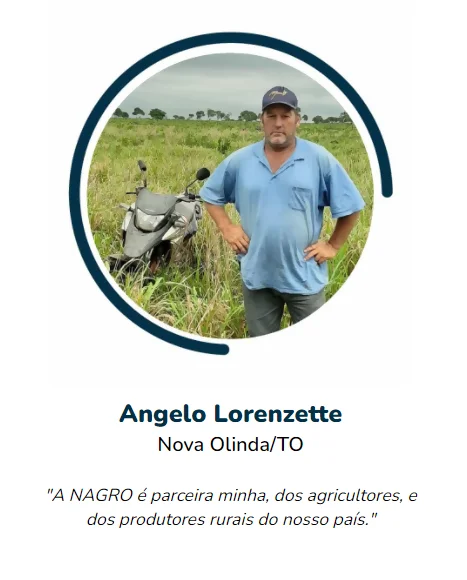
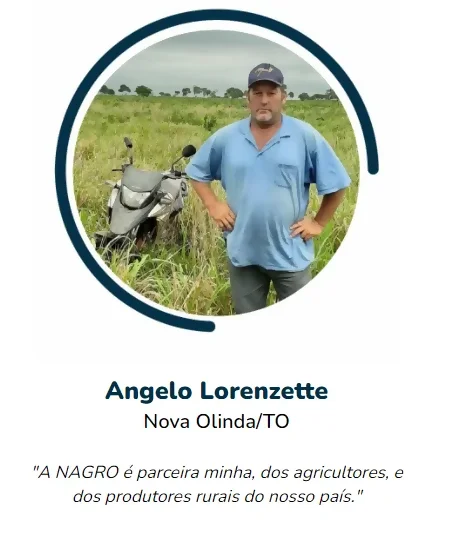
up

Changed region(s): [[0.0927, 0.0, 0.8653, 0.6104], [0.0618, 0.8241, 0.8962, 0.9156], [0.2163, 0.6715, 0.7417, 0.7935]]

diff --git a/css/main.css b/css/main.css
@@ -11,8 +11,8 @@
   display: block;
 }
 
-section{
-  padding: 40px 50px;
+section {
+  padding: 80px 50px;
 }
 
 #produtor {
@@ -86,7 +86,7 @@ section{
   font-family: "Ubuntu", sans-serif;
   color: white;
 }
-.img48 {
+.iconone {
   display: block;
   width: 100px;
 }
@@ -113,7 +113,7 @@ section{
   text-align: center;
   font-family: "Lato", sans-serif;
   font-size: 32px;
-  margin-top: 40px;
+  margin: 20px 0;
   line-height: 1;
 }
 
@@ -164,10 +164,10 @@ section{
   font-weight: 700;
 }
 
-.text-white{
+.text-white {
   display: block;
   text-align: center;
-  font-family: "Nunito",sans-serif!important;
+  font-family: "Nunito", sans-serif !important;
   color: white;
   line-height: 1;
   font-weight: 600;
@@ -175,12 +175,95 @@ section{
   margin-top: 50px;
 }
 
-#sec4 h2{
+#sec4 h2 {
   text-align: center;
-  font-family: "Ubuntu",sans-serif;
-  color: #0065c3!important;
+  font-family: "Ubuntu", sans-serif;
+  color: #0065c3 !important;
   font-size: 28px;
   font-weight: 700;
+  margin-bottom: 50px;
+}
+
+.icones {
+  display: flex;
+  justify-content: space-around;
+  align-items: stretch;
+  margin-bottom: 60px;
+}
+
+.card {
+  display: flex;
+  align-items: center;
+  justify-content: center;
+  height: 111px;
+}
+
+.card img {
+  max-height: 100%;
+}
+
+.card span {
+  display: block;
+  padding-top: 10px;
+  font-family: "Ubuntu";
+}
+
+#sec5 {
+  background-color: #ededed;
+  display: flex;
+}
+
+#sec5 div {
+  width: 50%;
+  padding: 45px;
+}
+
+#sec5 div img {
+  width: 50%;
+  margin: auto auto;
+  display: block;
+}
+
+#sec5 div h2 {
+  font-family: arial;
+  color: #023047 !important;
+  font-size: 32px;
+  font-weight: 700;
+  text-align: left;
+  width: 550px;
+  padding-top: 5px;
+}
+
+#sec5 div p {
+  font-family: "Ubuntu", sans-serif;
+  color: #4a4a4a !important;
+  font-size: 16px;
+  font-weight: 700;
+  width: 440px;
+  margin-top: 40px;
+}
+
+#timeline {
+  display: block;
+  width: 400px;
+  height: 50%;
+  margin: 35px 0 !important;
+}
+
+.btn2 {
+  color: #fff !important;
+  font-size: 15px !important;
+  font-family: "Nunito" !important;
+  font-weight: 700;
+  letter-spacing: 1px !important;
+  /* height : 50px; */
+  background-color: rgb(2, 48, 71);
+  border-color: rgb(2, 48, 71);
+  width: 250px;
+  padding: 10px;
+  border-radius: 5px;
+  text-decoration: none;
+  margin-left: 11px;
 }
 
 @media (max-width: 1050px) {
@@ -190,9 +273,8 @@ section{
 }
 
 @media (max-width: 800px) {
-
-  section{
-    padding: 20px 15px;
+  section {
+    padding: 40px 15px !important;
   }
 
   .logonagro {
@@ -228,7 +310,7 @@ section{
     width: 50%;
     font-size: 22px !important;
   }
-  .img48 {
+  .iconone {
     max-width: 100%;
   }
 
@@ -261,6 +343,40 @@ section{
     padding: 10px 20px;
     width: 95%;
     font-family: "Ubuntu", sans-serif;
+  }
+
+  .icones {
+    flex-direction: column;
+    margin-bottom: 0px;
+  }
+
+  #sec4 {
+    padding-bottom: 70px !important;
+  }
+
+  #sec4 h2 {
+    font-size: 20px;
+  }
+
+  .card {
+    align-items: center;
+    justify-content: start;
+    height: 100px;
+    width: 60%;
+    margin: 10px auto;
+  }
+
+  .card img {
+    max-height: 110%;
+    margin-right: 10px;
+    margin-left: 10px;
+    width: 95px;
+  }
+
+  .card span {
+    display: block;
+    padding-top: 10px;
+    font-family: "Ubuntu";
   }
 }
 

diff --git a/index.html b/index.html
@@ -7,6 +7,7 @@
   <meta name="viewport" content="width=device-width, initial-scale=1.0">
   <title>Solicite seu Crédito - Nagro</title>
   <link defer rel="stylesheet" href="css/main.css">
+  <link rel="stylesheet" href="css/scrollbar.css">
 </head>
 
 <body>
@@ -55,7 +56,7 @@
               NA CONTA </b> <br>
             EM ATÉ
           </span>
-          <img class="img48" src="assets/img/img48.webp" alt="48horas">
+          <img class="iconone" src="assets/img/img48.webp" alt="48horas">
         </div>
       </div>
     </div>
@@ -75,7 +76,7 @@
     </div>
     <div class="depoimentos">
       <img src="assets/img/depo-produtor.webp" alt="">
-      <img src="assets/img/depo-produtor2.webp" alt="" style="margin-top: -15px;">
+      <img src="assets/img/depo-produtor2.webp" alt="">
       <img src="assets/img/depo-produtor3.webp" alt="" style="margin-top: -5px;">
     </div>
   </section>
@@ -102,10 +103,68 @@
 
   <section id="sec4">
     <h2>
-      TROCAMOS A BUROCRACIA
+      TROCAMOS A BUROCRACIA <br>
       PELA FACILIDADE
     </h2>
+
+    <div class="icones">
+      <div class="card">
+        <img src="assets/img/money.webp" alt="money">
+        <span>
+          Sem pagamento <br>
+          <b>antecipado</b>
+        </span>
+      </div>
+      <div class="card">
+        <img src="assets/img/pay.webp" alt="money">
+        <span>
+          Não precisa vincular <br>
+          <b>nenhuma garantia</b>
+        </span>
+      </div>
+    </div>
+
+    <div class="icones">
+      <div class="card">
+        <img src="assets/img/search.webp" alt="money">
+        <span>
+          Análise de crédito <br>
+          <b>sem custo</b>
+        </span>
+      </div>
+      <div class="card">
+        <img src="assets/img/phone.webp" alt="money">
+        <span>
+          <b>100% digital </b>
+        </span>
+      </div>
+    </div>
+
+    <h2>
+      DINHEIRO NA CONTA DO <br>
+      PRODUTOR RURAL EM
+    </h2>
+
+    <img src="assets/img/48.webp" alt="48h" width="100" style="margin: auto auto; display: block">
   </section>
+
+  <!-- <section id="sec5">
+    <div>
+      <img src="assets/img/telefone.webp" alt="">
+    </div>
+    <div>
+      <h2>
+        Dinheiro na conta, com a agilidade e a atenção que você, produtor rural, precisa.
+      </h2>
+      <p>
+        É TÃO RÁPIDO QUE, QUANDO VOCÊ VÊ, JÁ FOI
+      </p>
+
+      <img src="assets/img/time-line.png" alt="" id="timeline">
+
+      <a href="#" class="btn2">SOLICITE SEU CRÉDITO</a>
+    </div>
+  </section> -->
 </body>
 
 </html>

diff --git a/css/scrollbar.css b/css/scrollbar.css
@@ -1,0 +1,20 @@
+::-webkit-scrollbar {
+  width: 8px;
+}
+
+/* Track */
+::-webkit-scrollbar-track {
+  box-shadow: inset 0 0 5px grey; 
+  border-radius: 5px;
+}
+ 
+/* Handle */
+::-webkit-scrollbar-thumb {
+  background: #0168BB; 
+  border-radius: 5px;
+}
+
+/* Handle on hover */
+::-webkit-scrollbar-thumb:hover {
+  background: #045292; 
+}
